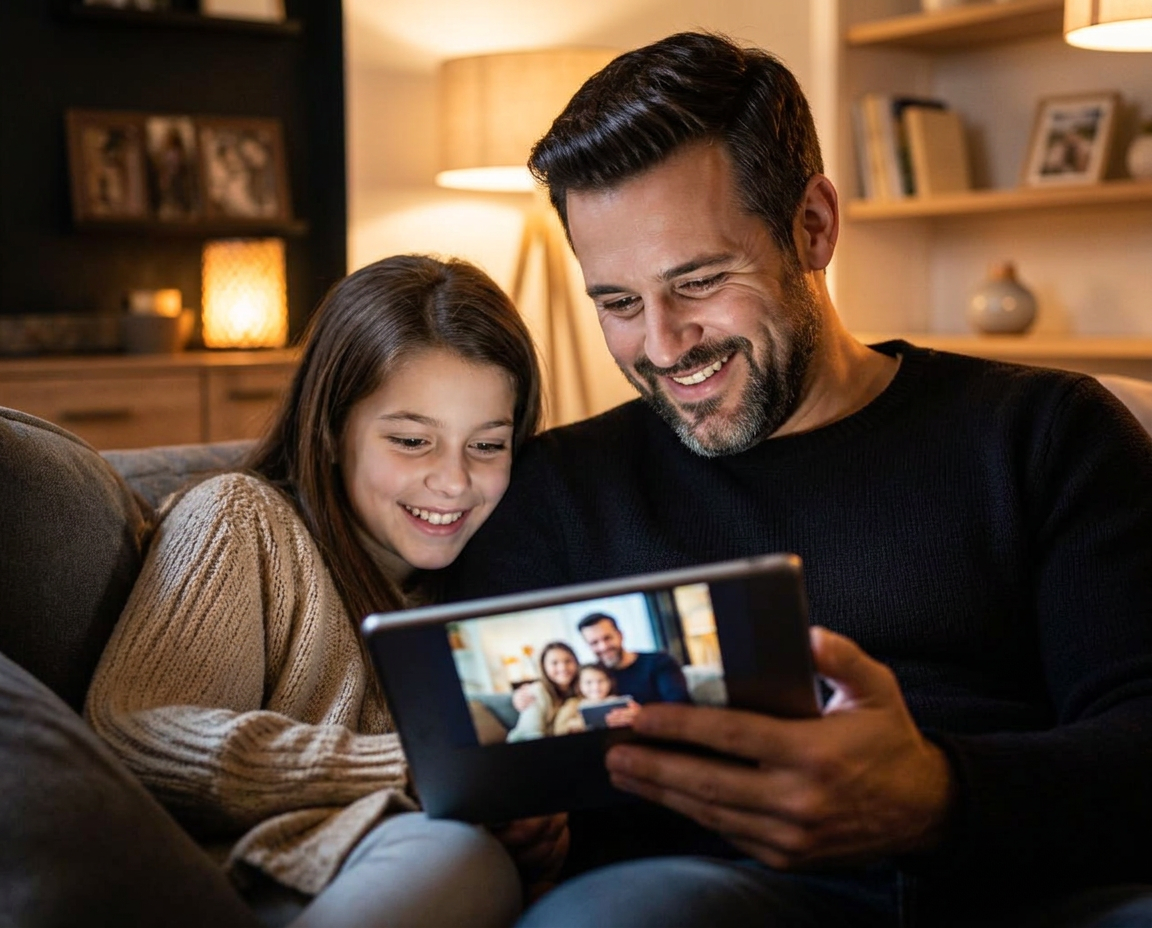
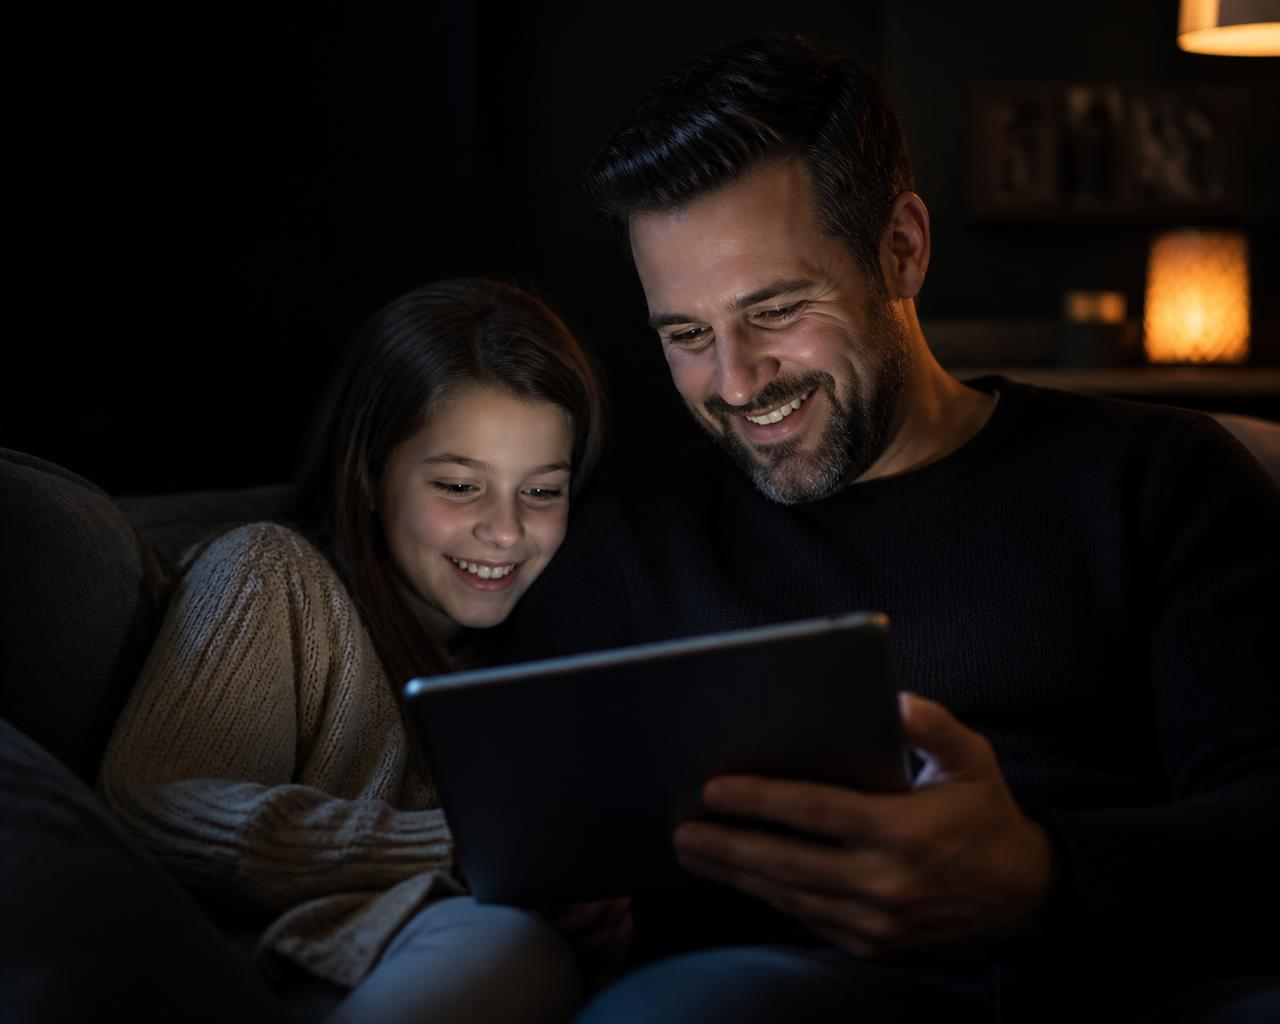
Reverted to commit ac08453790fe1fbe4407d1519ba99e382a991944

diff --git a/src/routes/finanzas-para-ninos.tsx b/src/routes/finanzas-para-ninos.tsx
@@ -1300,7 +1300,7 @@ function KidsFinanceLanding() {
           transition={{ duration: 0.5 }}
           className="relative -mt-16 overflow-hidden pt-16"
         >
-          <div className="pointer-events-none absolute inset-x-0 top-0 h-[38vh] min-h-[260px] md:h-[50vh] lg:inset-y-0 lg:left-auto lg:right-0 lg:h-auto lg:min-h-0 lg:w-[68%]">
+          <div className="pointer-events-none absolute inset-x-0 top-0 h-[34vh] min-h-[240px] md:h-[46vh] lg:inset-y-0 lg:left-auto lg:right-0 lg:h-auto lg:min-h-0 lg:w-[58%]">
             <img
               src={heroReal}
               alt={t(
@@ -1309,12 +1309,13 @@ function KidsFinanceLanding() {
               )}
               width={1280}
               height={1024}
-              className="h-full w-full object-cover object-[22%_10%] brightness-[1.04] contrast-[1.01] saturate-[0.97] md:object-[16%_16%] lg:object-[4%_40%] lg:[mask-image:linear-gradient(90deg,transparent_0%,transparent_34%,#000_70%,#000_100%)]"
+              className="h-full w-full object-cover object-[45%_18%] brightness-[1.35] contrast-[1.08] saturate-[1.05] md:object-[45%_22%] lg:object-[42%_42%] lg:[mask-image:linear-gradient(90deg,transparent_0%,transparent_16%,#000_54%,#000_100%)]"
             />
             {/* Gradual fade into the dark background so the photo never shows a hard edge */}
-            <div className="absolute inset-y-0 left-0 hidden w-[34%] bg-[linear-gradient(90deg,var(--background)_0%,transparent_100%)] lg:block" />
-            <div className="absolute inset-x-0 top-0 h-12 bg-[linear-gradient(180deg,var(--background)_0%,transparent_100%)] lg:h-20" />
-            <div className="absolute inset-x-0 bottom-0 h-16 bg-[linear-gradient(0deg,var(--background)_0%,transparent_100%)] md:h-24 lg:h-28" />
+            <div className="absolute inset-y-0 left-0 hidden w-[55%] bg-[linear-gradient(90deg,var(--background)_0%,transparent_100%)] lg:block" />
+            <div className="absolute inset-x-0 top-0 h-24 bg-[linear-gradient(180deg,var(--background)_0%,transparent_100%)] lg:h-44" />
+            <div className="absolute inset-x-0 bottom-0 h-32 bg-[linear-gradient(0deg,var(--background)_0%,transparent_100%)] md:h-40 lg:h-44" />
+            <div className="absolute inset-0 bg-background/15" />
           </div>
 
           <div className="relative mx-auto w-full max-w-7xl px-6 pb-10 pt-[30vh] md:pb-16 md:pt-[42vh] md:py-20 lg:py-24">
